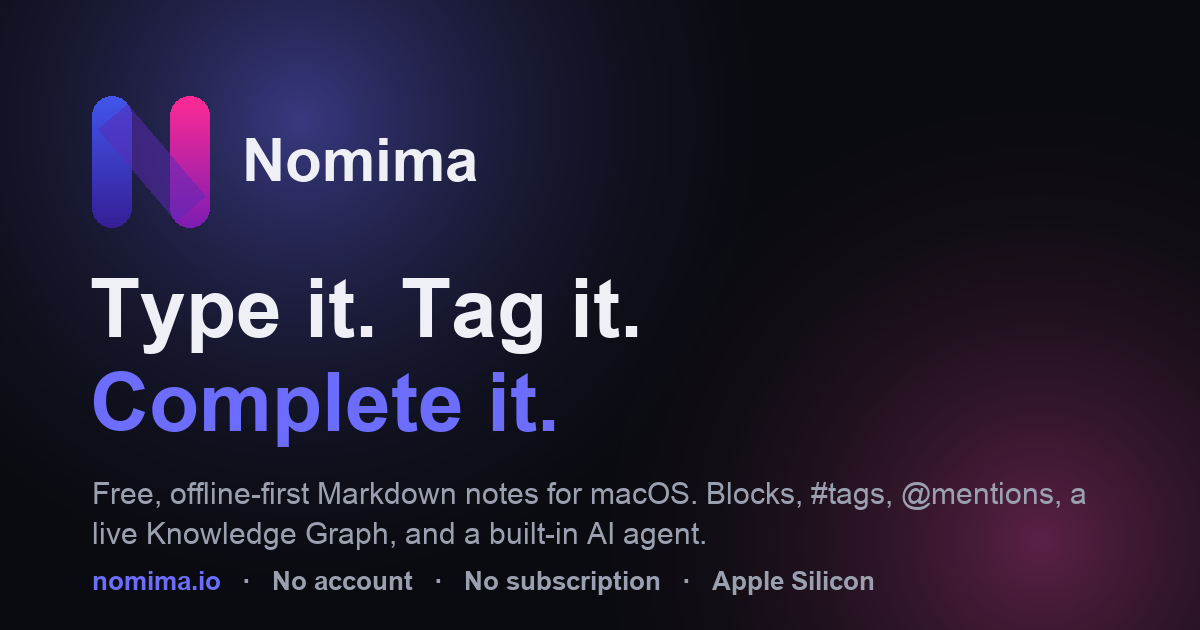
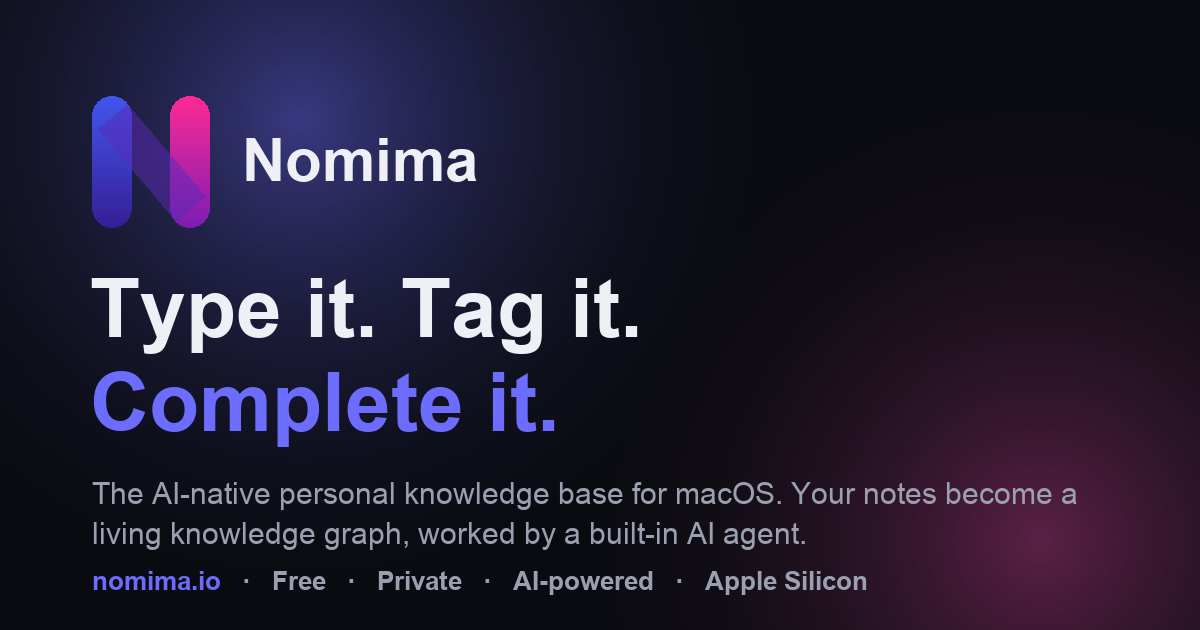
feat(seo): reposition as AI-native personal knowledge management
Nomima is a personal knowledge management (PKM) tool with deep AI, not a
"Markdown notes app". Rewrite the metadata copy accordingly.

- Homepage meta/OG/Twitter description → "free, AI-native personal
  knowledge base for macOS … living knowledge graph … built-in AI agent".
- SoftwareApplication: applicationSubCategory → "Personal knowledge
  management (PKM) & knowledge base"; AI-first featureList; PKM/second-brain
  description; alternateName + keywords for entity matching.
- Organization slogan; WebSite description reworded.
- FAQ: reframed answers + new Q "How is Nomima different from a notes app?".
- site.webmanifest description reworded.
- og.png regenerated: "The AI-native personal knowledge base for macOS …"

Changed region(s): [[0.0617, 0.754, 0.925, 0.8746], [0.2158, 0.9048, 0.555, 0.9349], [0.5858, 0.9048, 0.74, 0.9651]]

diff --git a/index.html b/index.html
@@ -5,7 +5,7 @@
   <meta name="viewport" content="width=device-width, initial-scale=1.0" />
   <title>Nomima — type it, tag it, complete it</title>
   <link rel="icon" type="image/svg+xml" href="/logo.svg" />
-  <meta name="description" content="Nomima is a free, offline-first Markdown notes app for macOS. Type it, tag it, complete it — blocks, #tags, @mentions, a live Knowledge Graph, and a built-in AI agent." />
+  <meta name="description" content="Nomima is a free, AI-native personal knowledge base for macOS. Your notes form a living knowledge graph, and a built-in AI agent reasons across everything you know." />
   <link rel="canonical" href="https://nomima.io/" />
   <meta name="robots" content="index, follow, max-image-preview:large, max-snippet:-1, max-video-preview:-1" />
   <meta name="author" content="Nomima" />
@@ -22,7 +22,7 @@
   <meta property="og:site_name" content="Nomima" />
   <meta property="og:locale" content="en_US" />
   <meta property="og:title" content="Nomima — type it, tag it, complete it" />
-  <meta property="og:description" content="Nomima is a free, offline-first Markdown notes app for macOS. Type it, tag it, complete it — blocks, #tags, @mentions, a live Knowledge Graph, and a built-in AI agent." />
+  <meta property="og:description" content="Nomima is a free, AI-native personal knowledge base for macOS. Your notes form a living knowledge graph, and a built-in AI agent reasons across everything you know." />
   <meta property="og:url" content="https://nomima.io/" />
   <meta property="og:image" content="https://nomima.io/og.png" />
   <meta property="og:image:type" content="image/png" />
@@ -32,7 +32,7 @@
   <!-- Twitter -->
   <meta name="twitter:card" content="summary_large_image" />
   <meta name="twitter:title" content="Nomima — type it, tag it, complete it" />
-  <meta name="twitter:description" content="Nomima is a free, offline-first Markdown notes app for macOS. Type it, tag it, complete it — blocks, #tags, @mentions, a live Knowledge Graph, and a built-in AI agent." />
+  <meta name="twitter:description" content="Nomima is a free, AI-native personal knowledge base for macOS. Your notes form a living knowledge graph, and a built-in AI agent reasons across everything you know." />
   <meta name="twitter:image" content="https://nomima.io/og.png" />
   <meta name="twitter:image:alt" content="Nomima — type it, tag it, complete it" />
   <style>
@@ -247,6 +247,7 @@
       "@type": "Organization",
       "@id": "https://nomima.io/#org",
       "name": "Nomima",
+      "slogan": "AI-native personal knowledge management for macOS.",
       "url": "https://nomima.io/",
       "logo": {
         "@type": "ImageObject",
@@ -268,15 +269,18 @@
       "publisher": {
         "@id": "https://nomima.io/#org"
       },
-      "description": "Free, offline-first Markdown notes app for macOS with blocks, #tags, @mentions, a live Knowledge Graph, and a built-in AI agent."
+      "description": "Free, AI-native personal knowledge management (PKM) app for macOS — a private knowledge base with a live knowledge graph and a built-in AI agent."
     },
     {
       "@type": "SoftwareApplication",
       "@id": "https://nomima.io/#app",
       "name": "Nomima",
-      "alternateName": "Nomima Notes",
+      "alternateName": [
+        "Nomima PKM",
+        "Nomima knowledge base"
+      ],
       "applicationCategory": "ProductivityApplication",
-      "applicationSubCategory": "Note-taking & knowledge management",
+      "applicationSubCategory": "Personal knowledge management (PKM) & knowledge base",
       "operatingSystem": "macOS 13.0 or later (Apple Silicon)",
       "softwareVersion": "1.17.0",
       "datePublished": "2026-06-28",
@@ -294,19 +298,20 @@
         "@id": "https://nomima.io/#org"
       },
       "isAccessibleForFree": true,
-      "description": "Nomima is a free, offline-first Markdown notes app for macOS. Every word you type becomes structured, searchable knowledge: type / for blocks, # for tags, @ to mention. It has a live Knowledge Graph, Smart Views, dates and reminders, and Summon — a built-in AI agent that reads and reasons over your notes using your own API key. Your notes stay on your Mac; AI and publishing are opt-in.",
+      "keywords": "personal knowledge management, PKM, knowledge base, second brain, AI notes, knowledge graph, AI agent, note-taking, macOS, Apple Silicon",
+      "description": "Nomima is a free, AI-native personal knowledge management (PKM) app for macOS — a private second brain. Every word you write becomes structured, searchable knowledge: type / for blocks, # for tags, @ to mention. Your notes automatically form a living Knowledge Graph, and Summon — a built-in AI agent — reads, reasons over and writes across your entire knowledge base using your own API key. Your knowledge stays on your Mac; AI and publishing are opt-in.",
       "featureList": [
+        "Summon — a built-in AI agent that reads, reasons over and writes across your whole knowledge base (bring your own Anthropic, Google or OpenAI key)",
+        "AI inline edit with accept / reject / regenerate",
+        "MCP server — connect external AI tools and assistants to your knowledge base",
+        "A live Knowledge Graph built automatically from #tags and @mentions",
+        "Personal knowledge management: link notes, people and ideas into a searchable second brain",
         "Markdown editor with a slash (/) block menu",
         "Blocks: task lists, sections, callouts, code, equations, diagrams, Kanban boards, Gantt charts",
-        "#hashtags and @mentions that build a live Knowledge Graph",
         "Smart Views and a Home dashboard",
-        "Dates, reminders and complete/incomplete tracking",
-        "Summon — a built-in AI agent (bring your own Anthropic, Google or OpenAI key)",
-        "AI inline edit with accept / reject / regenerate",
-        "Export & import (Markdown, HTML, JSON, vault zip)",
-        "12 curated themes",
-        "MCP server for connecting external AI tools",
-        "Offline-first — your notes stay on your Mac"
+        "Dates, reminders and complete / incomplete tracking",
+        "Export & import (Markdown, HTML, JSON, vault zip) and 12 curated themes",
+        "Offline-first and private — your knowledge stays on your Mac"
       ],
       "offers": {
         "@type": "Offer",
@@ -325,7 +330,15 @@
           "name": "What is Nomima?",
           "acceptedAnswer": {
             "@type": "Answer",
-            "text": "Nomima is a free Markdown notes app for macOS where every word you type becomes structured, searchable knowledge. Type / for blocks, # for tags and @ to mention people or notes. It includes a live Knowledge Graph, Smart Views, and Summon, a built-in AI agent."
+            "text": "Nomima is a free, AI-native personal knowledge management (PKM) app for macOS — a private second brain. Every word you write becomes structured, searchable knowledge, and your notes automatically form a live Knowledge Graph. Summon, a built-in AI agent, reads and reasons across everything you know, and can write back."
+          }
+        },
+        {
+          "@type": "Question",
+          "name": "How is Nomima different from a notes app?",
+          "acceptedAnswer": {
+            "@type": "Answer",
+            "text": "Unlike a plain notes app, Nomima is built for personal knowledge management. Your notes automatically link into a living Knowledge Graph, and a built-in AI agent (Summon) reasons across your entire knowledge base — summarizing, answering questions and drafting straight from your own notes."
           }
         },
         {
@@ -346,10 +359,10 @@
         },
         {
           "@type": "Question",
-          "name": "Is my data private in Nomima?",
+          "name": "Is my knowledge private in Nomima?",
           "acceptedAnswer": {
             "@type": "Answer",
-            "text": "Yes. Nomima is offline-first and your notes live on your Mac. Nothing is uploaded unless you explicitly use an opt-in feature. When you ask its AI agent (Summon) a question, only what you ask about is sent to the AI provider you chose."
+            "text": "Yes. Nomima is offline-first and your knowledge base lives on your Mac. Nothing is uploaded unless you explicitly use an opt-in feature. When you ask its AI agent (Summon) a question, only what you ask about is sent to the AI provider you chose."
           }
         },
         {
@@ -357,7 +370,7 @@
           "name": "Does Nomima have AI?",
           "acceptedAnswer": {
             "@type": "Answer",
-            "text": "Yes. Summon is a built-in AI agent that reads and reasons over your notebooks and can write back. You bring your own API key from a frontier model by Anthropic, Google or OpenAI. If no AI is configured, Nomima never makes a call. Nomima also ships an MCP server."
+            "text": "Yes — AI is core to Nomima. Summon is a built-in AI agent that reads and reasons across your knowledge base and can write back. You bring your own API key from a frontier model by Anthropic, Google or OpenAI. If no AI is configured, Nomima never makes a call. Nomima also ships an MCP server so external AI tools can connect to your notes."
           }
         },
         {

diff --git a/report.html b/report.html
@@ -5,7 +5,7 @@
   <meta name="viewport" content="width=device-width, initial-scale=1.0" />
   <title>Nomima — report an issue</title>
   <link rel="icon" type="image/svg+xml" href="/logo.svg" />
-  <meta name="description" content="Report a bug or issue with Nomima, the free macOS Markdown notes app — tell us what went wrong and we'll help." />
+  <meta name="description" content="Report a bug or issue with Nomima, the free AI-native knowledge app for macOS — tell us what went wrong and we'll help." />
   <link rel="canonical" href="https://nomima.io/report.html" />
   <meta name="robots" content="index, follow, max-image-preview:large, max-snippet:-1, max-video-preview:-1" />
   <meta name="author" content="Nomima" />
@@ -22,7 +22,7 @@
   <meta property="og:site_name" content="Nomima" />
   <meta property="og:locale" content="en_US" />
   <meta property="og:title" content="Nomima — report an issue" />
-  <meta property="og:description" content="Report a bug or issue with Nomima, the free macOS Markdown notes app — tell us what went wrong and we'll help." />
+  <meta property="og:description" content="Report a bug or issue with Nomima, the free AI-native knowledge app for macOS — tell us what went wrong and we'll help." />
   <meta property="og:url" content="https://nomima.io/report.html" />
   <meta property="og:image" content="https://nomima.io/og.png" />
   <meta property="og:image:type" content="image/png" />
@@ -32,7 +32,7 @@
   <!-- Twitter -->
   <meta name="twitter:card" content="summary_large_image" />
   <meta name="twitter:title" content="Nomima — report an issue" />
-  <meta name="twitter:description" content="Report a bug or issue with Nomima, the free macOS Markdown notes app — tell us what went wrong and we'll help." />
+  <meta name="twitter:description" content="Report a bug or issue with Nomima, the free AI-native knowledge app for macOS — tell us what went wrong and we'll help." />
   <meta name="twitter:image" content="https://nomima.io/og.png" />
   <meta name="twitter:image:alt" content="Nomima — type it, tag it, complete it" />
   <style>
